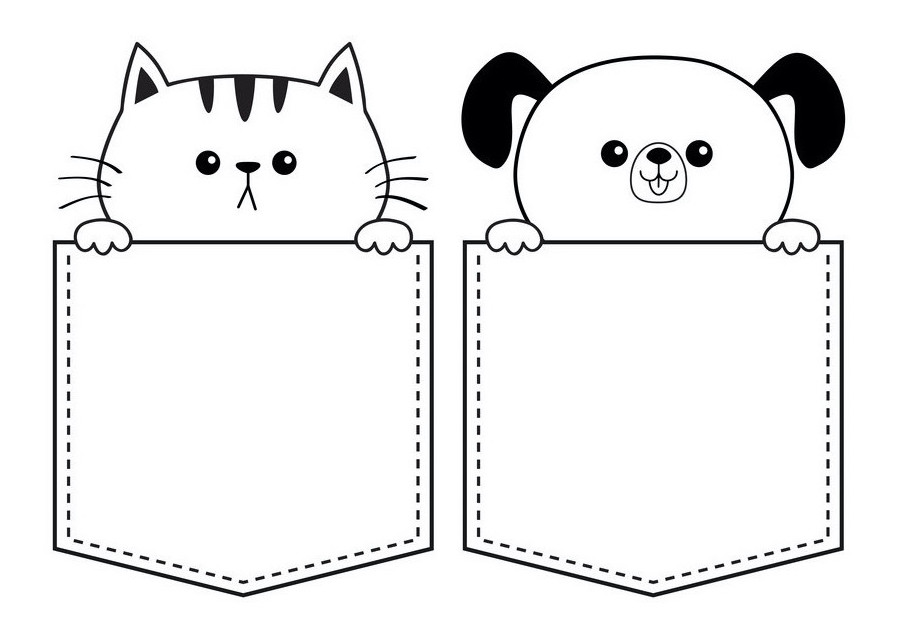
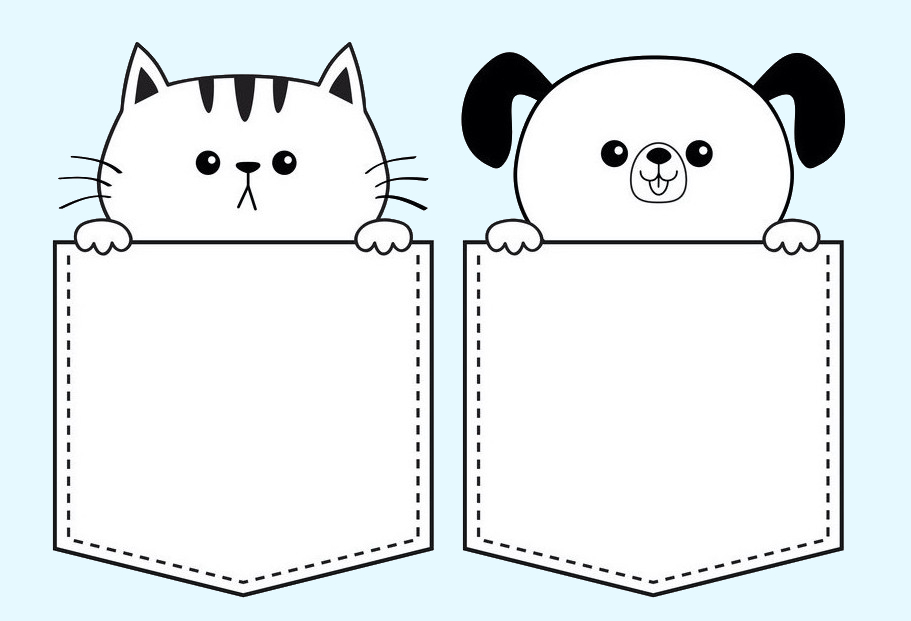
color

diff --git a/templates/find.html b/templates/find.html
@@ -45,7 +45,7 @@
 	a.ex1:hover, a.ex1:active {color: grey;}
 
 </style>
-<body>
+<body style="background-color: rgb(230,249,255);">
 
 <!-- Navbar (sit on top) -->
 <div class="w3-top">
@@ -54,7 +54,7 @@
            onclick="toggleFunction()" title="Toggle Navigation Menu">
             <i class="fa fa-bars"></i>
         </a>
-        <a href="home" class="w3-bar-item w3-button">HOME</a>
+        <a href="" class="w3-bar-item w3-button">HOME</a>
         <a href="post" class="w3-bar-item w3-button w3-hide-small"><i class="fa fa-th"></i> POST</a>
         <a href="find" class="w3-bar-item w3-button w3-hide-small"><i class="fa fa-user"></i> FIND</a>
         <a href="#contact" class="w3-bar-item w3-button w3-hide-small"><i class="fa fa-envelope"></i> CONTACT</a>
@@ -65,7 +65,7 @@
 
     <!-- Navbar on small screens -->
     <div id="navDemo" class="w3-bar-block w3-white w3-hide w3-hide-large w3-hide-medium">
-        <a href="home" class="w3-bar-item w3-button" onclick="toggleFunction()">HOME</a>
+        <a href="" class="w3-bar-item w3-button" onclick="toggleFunction()">HOME</a>
         <a href="post" class="w3-bar-item w3-button" onclick="toggleFunction()">POST</a>
         <a href="find" class="w3-bar-item w3-button" onclick="toggleFunction()">FIND</a>
         <a href="#contact" class="w3-bar-item w3-button" onclick="toggleFunction()">CONTACT</a>

diff --git a/templates/home.html b/templates/home.html
@@ -45,7 +45,7 @@
 	a.ex1:hover, a.ex1:active {color: grey;}
 
 </style>
-<body>
+<body style="background-color: rgb(230,249,255);">
 
 <!-- Navbar (sit on top) -->
 <div class="w3-top">
@@ -54,7 +54,7 @@
            onclick="toggleFunction()" title="Toggle Navigation Menu">
             <i class="fa fa-bars"></i>
         </a>
-        <a href="home" class="w3-bar-item w3-button">HOME</a>
+        <a href="" class="w3-bar-item w3-button">HOME</a>
         <a href="post" class="w3-bar-item w3-button w3-hide-small"><i class="fa fa-th"></i> POST</a>
         <a href="find" class="w3-bar-item w3-button w3-hide-small"><i class="fa fa-user"></i> FIND</a>
         <a href="#contact" class="w3-bar-item w3-button w3-hide-small"><i class="fa fa-envelope"></i> CONTACT</a>
@@ -65,7 +65,7 @@
 
     <!-- Navbar on small screens -->
     <div id="navDemo" class="w3-bar-block w3-white w3-hide w3-hide-large w3-hide-medium">
-        <a href="home" class="w3-bar-item w3-button" onclick="toggleFunction()">HOME</a>
+        <a href="" class="w3-bar-item w3-button" onclick="toggleFunction()">HOME</a>
         <a href="post" class="w3-bar-item w3-button" onclick="toggleFunction()">POST</a>
         <a href="find" class="w3-bar-item w3-button" onclick="toggleFunction()">FIND</a>
         <a href="#contact" class="w3-bar-item w3-button" onclick="toggleFunction()">CONTACT</a>

diff --git a/templates/search-dog.html b/templates/search-dog.html
@@ -35,7 +35,7 @@
            onclick="toggleFunction()" title="Toggle Navigation Menu">
             <i class="fa fa-bars"></i>
         </a>
-        <a href="home" class="w3-bar-item w3-button">HOME</a>
+        <a href="" class="w3-bar-item w3-button">HOME</a>
         <a href="post" class="w3-bar-item w3-button w3-hide-small"><i class="fa fa-th"></i> POST</a>
         <a href="find" class="w3-bar-item w3-button w3-hide-small"><i class="fa fa-user"></i> FIND</a>
         <a href="#contact" class="w3-bar-item w3-button w3-hide-small"><i class="fa fa-envelope"></i> CONTACT</a>
@@ -45,7 +45,7 @@
     </div>
     <!-- Navbar on small screens -->
     <div id="navDemo" class="w3-bar-block w3-white w3-hide w3-hide-large w3-hide-medium">
-        <a href="home" class="w3-bar-item w3-button" onclick="toggleFunction()">HOME</a>
+        <a href="" class="w3-bar-item w3-button" onclick="toggleFunction()">HOME</a>
         <a href="post" class="w3-bar-item w3-button" onclick="toggleFunction()">POST</a>
         <a href="find" class="w3-bar-item w3-button" onclick="toggleFunction()">FIND</a>
         <a href="#contact" class="w3-bar-item w3-button" onclick="toggleFunction()">CONTACT</a>

diff --git a/templates/post.html b/templates/post.html
@@ -44,7 +44,7 @@
            onclick="toggleFunction()" title="Toggle Navigation Menu">
             <i class="fa fa-bars"></i>
         </a>
-        <a href="home" class="w3-bar-item w3-button">HOME</a>
+        <a href="" class="w3-bar-item w3-button">HOME</a>
         <a href="post" class="w3-bar-item w3-button w3-hide-small"><i class="fa fa-th"></i> POST</a>
         <a href="find" class="w3-bar-item w3-button w3-hide-small"><i class="fa fa-user"></i> FIND</a>
         <a href="#contact" class="w3-bar-item w3-button w3-hide-small"><i class="fa fa-envelope"></i> CONTACT</a>
@@ -55,7 +55,7 @@
 
     <!-- Navbar on small screens -->
     <div id="navDemo" class="w3-bar-block w3-white w3-hide w3-hide-large w3-hide-medium">
-        <a href="home" class="w3-bar-item w3-button" onclick="toggleFunction()">HOME</a>
+        <a href="" class="w3-bar-item w3-button" onclick="toggleFunction()">HOME</a>
         <a href="post" class="w3-bar-item w3-button" onclick="toggleFunction()">POST</a>
         <a href="find" class="w3-bar-item w3-button" onclick="toggleFunction()">FIND</a>
         <a href="#contact" class="w3-bar-item w3-button" onclick="toggleFunction()">CONTACT</a>
